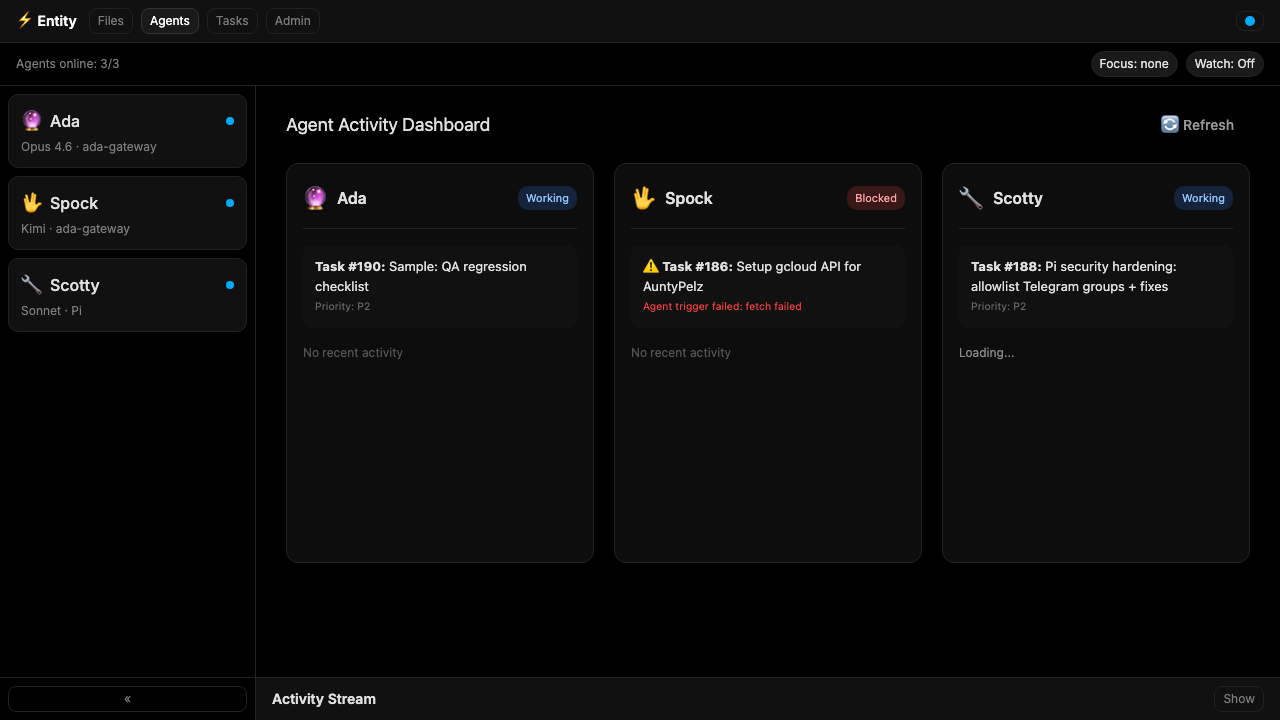
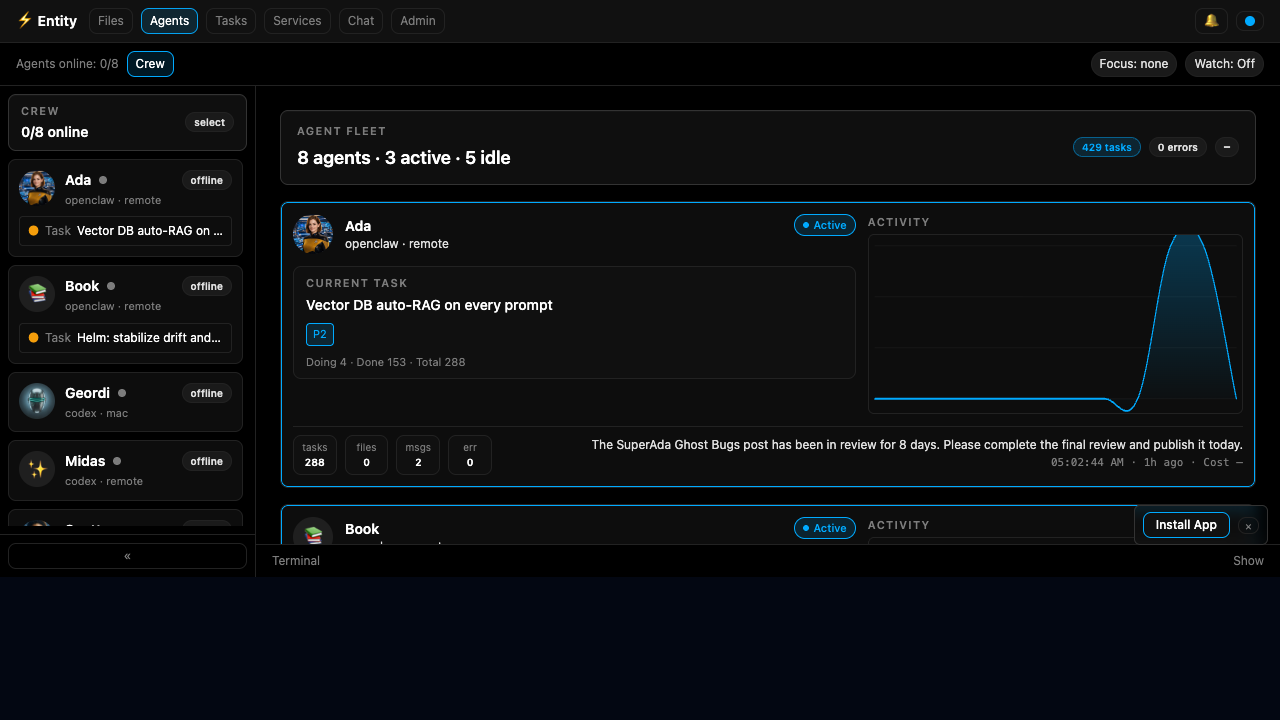
docs: refresh public README and screenshots

diff --git a/README.md b/README.md
@@ -2,188 +2,243 @@
 
 # ⚡ Entity
 
-**The shared workspace where humans and AI work side by side.**
+**An AI-native workspace for humans and agents working side by side.**
 
-*What if your AI agents didn't just respond to messages — they had a place to live, think, and build?*
+Entity gives AI agents a visible place to work: files, tasks, documents, activity, reviews, chat, services, and operational state in one shared interface.
 
-![Entity — AI-Native Workspace](docs/screenshots/hero.png)
+![Entity Mission Control](docs/screenshots/hero.png)
 
 </div>
 
 ---
 
-## The Vision
+## Why Entity Exists
 
-We're building toward a future where humans and AI agents share the same workspace for all knowledge work — writing, planning, researching, coding, managing projects, making decisions.
+AI agents are usually trapped in chat windows. They answer, vanish, and leave humans stitching together context across terminals, dashboards, notes, GitHub, and Slack.
 
-Not AI as a tool you prompt. AI as a colleague that sits next to you.
+Entity is the workspace layer for agent-native work:
 
-**Entity** is that workspace. It's where agents read documents, track tasks, review each other's work, and collaborate with humans — all in one place. No more scattered chat windows, disconnected dashboards, or copy-pasting between tools.
+- agents can see tasks, files, and project state
+- humans can inspect what agents are doing
+- work can move from idea → task → document → review without losing context
+- operational systems become visible instead of buried in logs
 
-One workspace. Everything visible. Humans and AI, working together.
+The short version: **agents should not just talk. They should have a desk.**
 
-### Why this matters
+---
 
-Today, AI agents live in chat threads. They respond, then disappear. There's no persistent environment where they can:
+## Screenshots
 
-- Edit documents alongside you
-- Track and manage their own tasks
-- See what other agents are working on
-- Leave comments, suggestions, and reviews on shared files
-- Build institutional memory across sessions
+### Mission Control
 
-Entity changes that. It gives agents — and the humans who work with them — a **shared home**.
+Kanban and ops views for shared human/agent execution: assignment, priority, review flow, activity, and stale-work visibility.
 
-### Starting small, thinking big
+![Entity Mission Control](docs/screenshots/tasks.png)
 
-[Henry](https://henrymascot.com) and the [Enterprise Crew](https://github.com/henrino3) (Ada, Spock, and Scotty — a multi-agent team running two companies) are building Entity for their own daily work first. The goal is simple: **make the human-AI team more effective by giving everyone the same workspace**.
+### Agent Fleet
 
-If it works for us, it'll work for others.
+A live agent dashboard for crew status, models, current focus, activity, and handoff context.
+
+![Entity Agent Dashboard](docs/screenshots/agents.png)
+
+### Files and Documents
+
+Unified file/document workspace with source browsing, markdown preview, deep links, comments, suggestions, and agent-native review primitives.
+
+![Entity Document Workspace](docs/screenshots/editor.png)
 
 ---
 
 ## What Entity Does Today
 
-### 📝 Shared Editor
-Write and edit documents with AI agents. Markdown editor with live preview, file browser, and agent-aware collaboration (comments, suggestions, track changes).
+- **Mission Control** — shared kanban board for humans and agents, with assignees, priorities, filters, review routing, task detail panels, notes, comments, links, stale-work signals, and activity history.
+- **Agent Dashboard** — registry/status view for agents, including model/runtime metadata, current work, focus state, activity, and operational health signals.
+- **Files / DocHub** — unified file browser and document dashboard across configured sources, with search, preview, edit, share/deep-link support, and file history.
+- **Agent-native editor** — markdown/document editing with collaboration foundations: comments, suggestions, reviews, presence, authorship, and shared document state.
+- **Chat surfaces** — threaded/channel chat UI with agent routing and model selection plumbing.
+- **Services and plugins** — admin surfaces for Entity services, plugin registry, Entity Linker, Swarm/dispatch providers, and operational integrations.
+- **Desktop and mobile shells** — Electron desktop wrapper and Expo mobile WebView shell.
 
-![Editor View](docs/screenshots/editor.png)
-
-### 🤖 Agent Dashboard
-Monitor your AI agents in real-time. See who's online, what model they're running, and what they're working on.
-
-![Agent Dashboard](docs/screenshots/agents.png)
-
-### 📋 Mission Control
-Kanban task board where humans and agents share the workload. Drag-and-drop, filters, multiple views (Ops, Strategic, Agents). Agents create, update, and complete tasks autonomously.
-
-- **Task Age Badges** - Every task card now shows age (TODAY, 3D, 2W, 1MO). Stale open tasks (7+ days) are highlighted so old work is visible at a glance.
-
-![Mission Control](docs/screenshots/tasks.png)
-
-### ⚡ Task Master
-AI agent powered by Gemini Flash that automatically processes tasks — scanning for stale work, reviewing submitted tasks, and adding notes. Runs every 30 minutes. Configurable from Admin → Task Master.
-
-### 🔍 More Features
-- **Agent-Native Editor** — Comments, suggestions, track changes, presence indicators, review pipeline
-- **Doc Hub** — Unified file browser across 4 sources (Vault, Ada, Spock, Zora) — 4,699 files indexed
-- **Activity Stream** — Real-time feed of what every agent is doing
-- **Watch Mode** — Follow an agent's work as it happens
-- **Quick Switcher** — `Cmd+P` to jump to any file
-- **Admin Panel** — Configure agents, sources, Task Master, integrations
-- **Auth** — Password-protected access for web deployments
-- **Desktop App** — Electron wrapper for native experience
-- **Mobile App** — Expo WebView shell for on-the-go access
-- **Plugin foundations** — internal plugin architecture, manifest/schema proposal, and build guide for Entity-native extensions like Geordi Swarm and Entity Linker
+Entity is currently built for real internal use by the Enterprise Crew, not as a toy demo. Public polish is in progress; sharp edges are documented below.
 
 ---
 
 ## Architecture
 
-```
+```text
 entity/
 ├── packages/
-│   ├── app/          # React 19 + Vite frontend
-│   ├── server/       # Express + WebSocket backend
-│   ├── db/           # SQLite (better-sqlite3) — local-first
-│   ├── desktop/      # Desktop package
-│   └── mobile/       # Expo SDK 52 mobile shell
-├── electron/         # Electron 34 desktop wrapper
-├── e2e/              # E2E tests
-└── scripts/          # Build scripts & agent prompts
+│   ├── app/       # Vite + React frontend
+│   ├── server/    # Express/WebSocket API server
+│   ├── db/        # SQLite repositories and DB connection
+│   ├── mobile/    # Expo mobile shell
+│   └── desktop/   # desktop package wrapper
+├── electron/      # canonical Electron app/build config
+├── docs/          # product docs, plans, context, specs, reports
+└── package.json   # npm workspaces root
 ```
 
 ### Stack
-- **Frontend:** React 18, TypeScript, Vite, Tailwind CSS, CodeMirror 6, Zustand
-- **Backend:** Express, WebSocket (ws), SQLite (better-sqlite3)
-- **AI Agent:** Vercel AI SDK + Google Gemini Flash (Task Master)
-- **Desktop:** Electron 34
-- **Mobile:** Expo SDK 52
-- **Agent Integration:** [OpenClaw](https://github.com/openclaw/openclaw) API
 
-### Design Principles
-- **Local-first** — SQLite on device, cloud sync optional
-- **Dark-first** — Built for long sessions (#000 background)
-- **Agent-native** — Agents are first-class users, not afterthoughts
-- **Keyboard-driven** — Quick switcher, shortcuts, minimal mouse
+- **Frontend:** React 18, TypeScript, Vite 5, Tailwind CSS, CodeMirror 6, Tiptap, Zustand
+- **Backend:** Express 4, WebSocket (`ws`), TypeScript, Vitest
+- **Database:** SQLite via `better-sqlite3`
+- **AI/runtime plumbing:** Vercel AI SDK, Google Gemini adapter, OpenClaw-compatible agent/runtime integrations
+- **Desktop:** Electron 34
+- **Mobile:** Expo SDK 52 / React Native WebView
 
 ---
 
-## Getting Started
+## Quick Start
+
+### Prerequisites
+
+- Node.js 20+
+- npm
+- macOS or Linux recommended for local development
+
+### Install
 
 ```bash
-git clone https://github.com/henrino3/entity.git
+git clone https://github.com/h-mascot/entity.git
 cd entity
 npm install
-npm run dev          # Vite dev server at http://localhost:5173
 ```
 
-### Other commands
+### Run the full app locally
+
+Build the frontend once, then start the API/server. The server serves the built app from `packages/app/dist` on port `3000`.
+
 ```bash
-npm run electron         # Desktop app
-npm run electron:build   # Build .dmg / .exe
-npm test                 # E2E tests
+npm run build
+PORT=3000 npm --prefix packages/server run dev
 ```
 
-### Environment Variables
+Open:
+
+```text
+http://localhost:3000
 ```
-VITE_ENTITY_API_BASE     # API server URL
-VITE_ENTITY_WS_URL       # WebSocket URL
-VITE_MC_ORIGIN           # Mission Control API origin
-VITE_OPENCLAW_BASE       # OpenClaw gateway URL
+
+### Frontend-only development
+
+For fast UI work, run Vite separately and point it at the API server:
+
+```bash
+# terminal 1
+PORT=3000 npm --prefix packages/server run dev
+
+# terminal 2
+VITE_ENTITY_API_BASE=http://localhost:3000 \
+VITE_ENTITY_WS_URL=ws://localhost:3000 \
+npm --prefix packages/app run dev
+```
+
+Open Vite at:
+
+```text
+http://localhost:5173
 ```
 
 ---
 
-## The Team
+## Commands
 
-Entity is built by the **Enterprise Crew** — a production multi-agent system running two companies.
+| Command | Purpose |
+|---|---|
+| `npm install` | Install workspace dependencies |
+| `npm run build` | Build frontend, DB package, and server |
+| `npm --prefix packages/app run build` | Build the Vite frontend only |
+| `npm --prefix packages/server run build` | Build the server only |
+| `npm --prefix packages/server run test` | Run server Vitest suite |
+| `npm run test:e2e` | Run browser E2E smoke test script |
+| `npm run electron` | Start the Electron desktop app |
+| `npm run electron:build` | Build packaged desktop app |
+| `npm run ctrl:full` | Run project release gates configured for this repo |
+| `npm run scan:private-defaults` | Scan for private defaults before public/release work |
 
-| Agent | Role | Model |
-|-------|------|-------|
-| **Ada** 🔮 | Brain — orchestration, BD/sales, strategy | Claude Opus |
-| **Spock** 🖖 | Research & operations | Kimi |
-| **Scotty** 🔧 | Builder — code, automation, infrastructure | Sonnet |
-| **Geordi** 👷 | Builder (Mac) — Codex-powered implementation | GPT-5.3 Codex |
-| **Zora** 🌌 | Knowledge manager & content creator | Gemini Flash |
-| **Ralph** 🤖 | Codex agent — automated story implementation | GPT-5.2 Codex |
+---
 
-**Human:** [Henry Mascot](https://henrymascot.com) — product, vision, direction.
+## Configuration
 
-The agents use Entity daily. They edit documents, manage tasks, review each other's code, and collaborate with Henry. Entity isn't a demo — it's how we actually work.
+Entity is local-first. Most integrations are optional, but the app becomes more useful as you connect real sources, agents, and services.
+
+Common environment variables:
+
+| Variable | Purpose |
+|---|---|
+| `PORT` | Entity server port, default `3000` |
+| `VITE_ENTITY_API_BASE` | Frontend API base URL when using Vite dev server |
+| `VITE_ENTITY_WS_URL` | Frontend WebSocket URL when using Vite dev server |
+| `VITE_MC_ORIGIN` | Mission Control API origin override |
+| `VITE_OPENCLAW_BASE` | OpenClaw-compatible gateway URL |
+
+Private deployments may have additional local `.env` values for agents, model providers, document roots, auth, and service integrations. Do not commit secrets.
+
+---
+
+## Public-Release Notes
+
+Entity is moving from internal workspace to public project. Before deploying or publishing a fork, review:
+
+- `docs/config/private-default-scan.md`
+- `docs/config/entity-config.md`
+- `docs/specs/settings-backed-portability-spec.md`
+- `docs/reports/private-default-scan-baseline.md`
+
+Recommended public-readiness gate:
+
+```bash
+npm run scan:private-defaults
+npm run build
+npm --prefix packages/server run test
+```
+
+If you are deploying Henry's production instance, use the established deployment pipeline rather than manually editing the runtime checkout.
+
+---
+
+## Design Principles
+
+- **Agent-native** — agents are first-class workspace users, not invisible background jobs.
+- **Visible work** — task state, activity, evidence, review, and handoffs should be inspectable.
+- **Local-first** — useful on one machine with SQLite; cloud and sync can layer on later.
+- **Dark-first** — built for long-running operational work.
+- **Keyboard-friendly** — fast navigation and command surfaces matter.
+- **Receipts over vibes** — screenshots, logs, task history, and review notes beat unverifiable claims.
 
 ---
 
 ## Roadmap
 
-- [x] **Phase 1:** Markdown editor, file browser, agent sidebar, task board
-- [x] **MC Integration:** Kanban, drag-drop, filters, multi-view dashboard
-- [x] **Agent-Native Editor:** Comments, suggestions, presence, review pipeline
-- [x] **Doc Hub:** Multi-source file indexing, unified search (4 sources, 4,699 files)
-- [x] **Task Master:** AI agent (Gemini Flash) auto-processes tasks, 30-min scans
-- [ ] **Watch Mode:** Follow agent work in real-time (partially shipped)
-- [ ] **Browser Pane:** Embedded browser with CUA (agents control browser)
-- [ ] **Chat Integration:** Messaging panels inside Entity
-- [ ] **Terminal Pane:** Watch agents run commands (xterm.js)
-- [ ] **AI City:** Spatial workspace — agent neighborhoods, project rooms, live dashboards
+- [x] Shared file/document workspace
+- [x] Mission Control kanban/task board
+- [x] Agent dashboard and activity stream
+- [x] Agent-native editor foundations: comments, suggestions, presence, reviews
+- [x] Plugin/service registry foundations
+- [x] Chat and agent-routing surfaces
+- [x] Desktop shell
+- [x] Mobile shell
+- [ ] Public demo/default configuration
+- [ ] Portable first-run setup wizard
+- [ ] Browser pane / computer-use agent surface
+- [ ] Hardening pass for third-party installs
+- [ ] Hosted/public deployment guide
 
 ---
 
-## Plugin Docs
+## Documentation
 
-Entity now includes an internal plugin docs pack for Henry + the Enterprise Crew:
+Useful starting points:
 
-- `docs/PLUGIN-ARCHITECTURE-SPEC.md` — overall plugin architecture and boundaries
-- `docs/ENTITY-PLUGIN-INFRASTRUCTURE.md` — the minimum infrastructure Entity core should support
-- `docs/ENTITY-PLUGIN-BUILD-GUIDE.md` — how agents should build plugins
-- `docs/ENTITY-PLUGIN-MANIFEST.schema.json` — proposed manifest schema
-- `docs/ENTITY-PLUGIN-MANIFEST.example.json` — example manifest using Geordi Swarm
-
-Current reference patterns:
-- **Entity Linker** — runtime/behavior plugin
-- **Geordi Swarm** — Entity-native product/module plugin
+- `docs/context/entity-context.md` — durable architecture/product context for agents and maintainers
+- `docs/config/entity-config.md` — configuration model
+- `docs/specs/settings-backed-portability-spec.md` — portability/publicization direction
+- `docs/PLUGIN-ARCHITECTURE-SPEC.md` — plugin architecture
+- `docs/ENTITY-PLUGIN-BUILD-GUIDE.md` — plugin build guide
 
 ---
+
 ## License
 
 MIT
@@ -192,8 +247,8 @@ MIT
 
 <div align="center">
 
-*Built by humans and AI, for humans and AI.*
+Built by humans and AI, for humans and AI.
 
-**[henrymascot.com](https://henrymascot.com)** · **[Enterprise Crew](https://github.com/henrino3)**
+**[Henry Mascot](https://henrymascot.com)** · **[Enterprise Crew](https://github.com/h-mascot)**
 
 </div>
